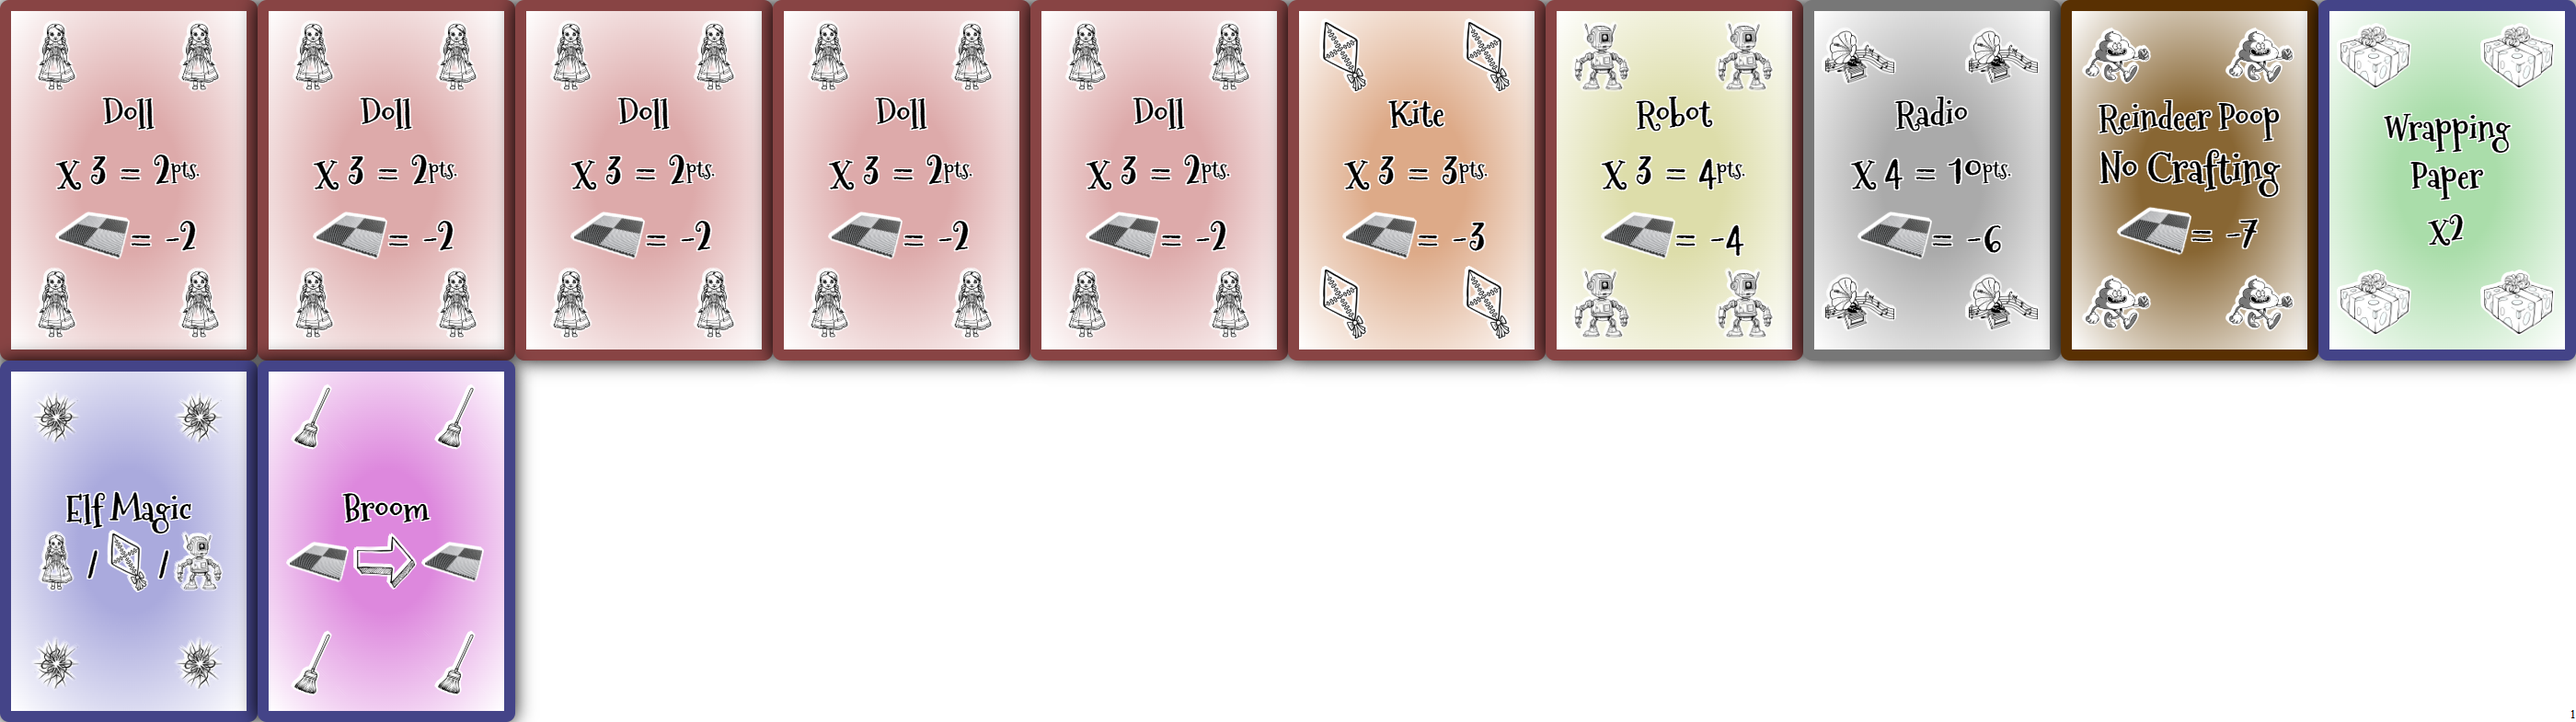
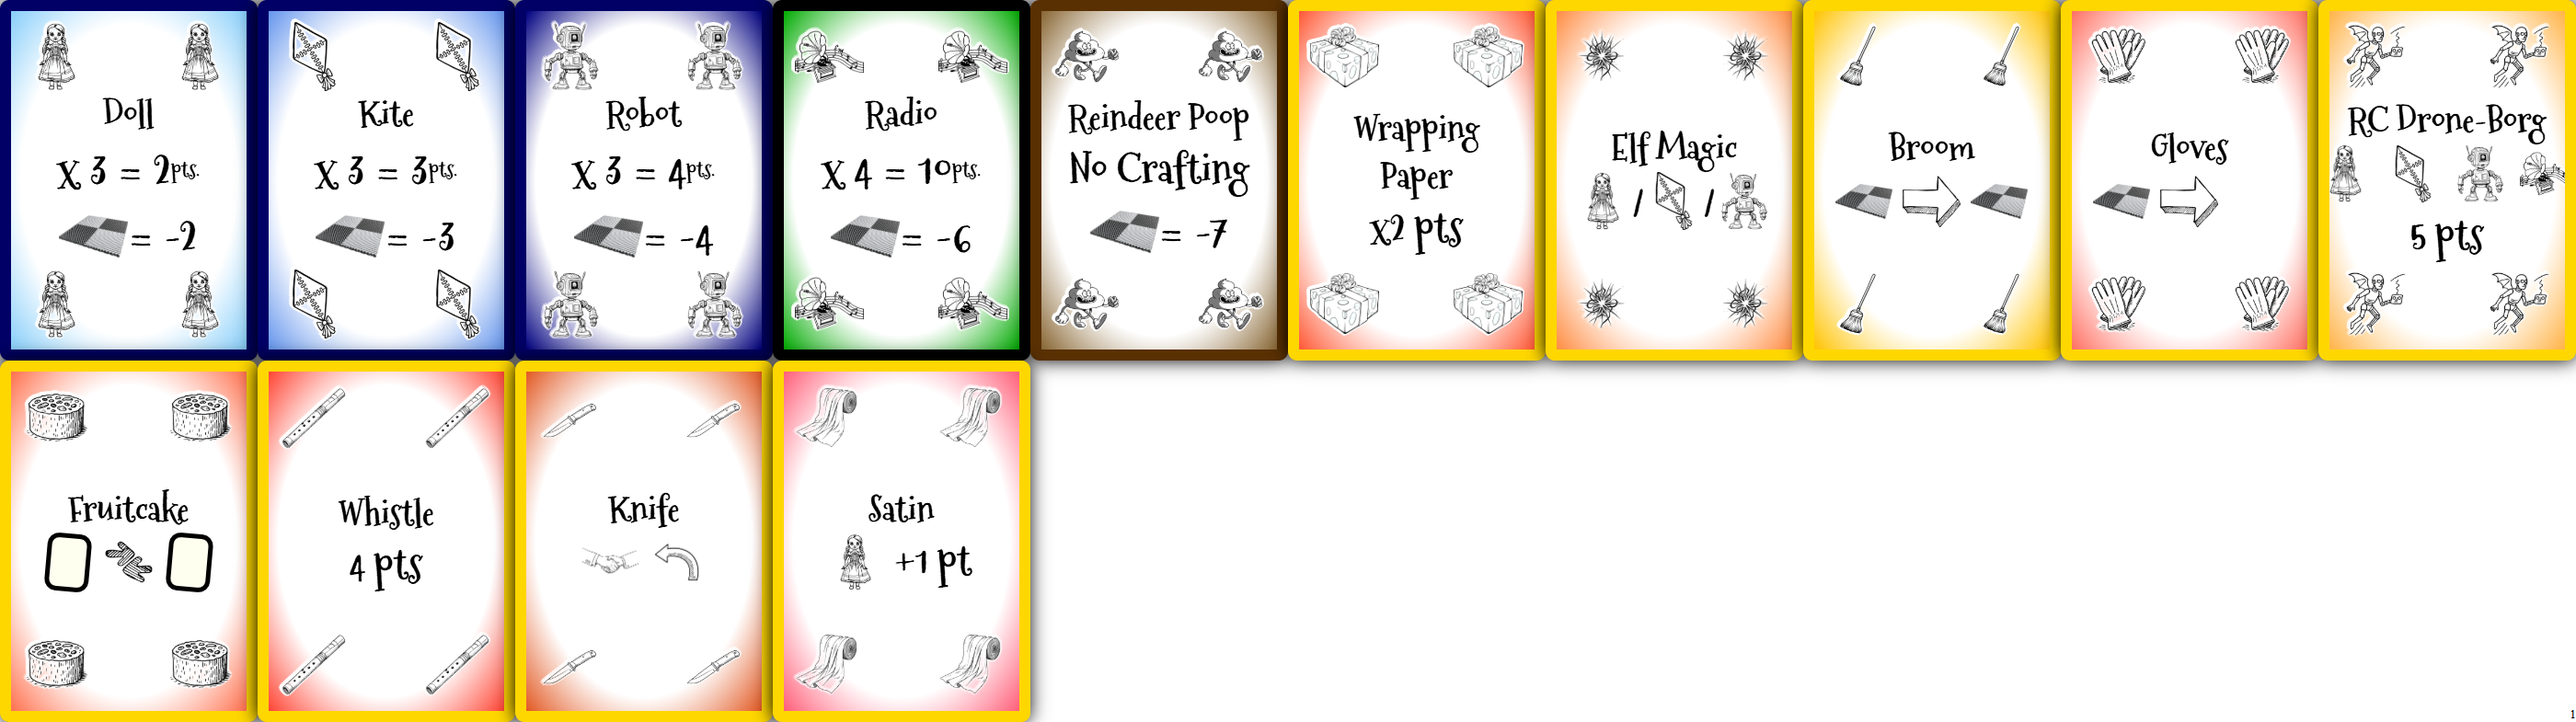
new colors more gold cards

diff --git a/Html.Santa/javascript/toyComponentCards.js b/Html.Santa/javascript/toyComponentCards.js
@@ -23,8 +23,12 @@ define([
   // Constants
   var minicardWidth = 30;
   var minicardHeight = minicardWidth * 1.4;
-  var specialImageSize = minicardHeight;
   var whiteOutlineClass = "white_outline";
+
+  var specialBorderColor = "#FFD700";
+  var basicBorderColor = "#000066";
+  var radioBorderColor = "#006600";
+
   var toyComponentCardConfigs = [
     {
       title: "Doll",
@@ -35,8 +39,8 @@ define([
       },
       floor: -2,
       playType: "normal",
-      color: "#ddaaaa",
-      borderColor: "#884444",
+      color: "#87CEFA",
+      borderColor: basicBorderColor,
     },
     {
       title: "Kite",
@@ -47,8 +51,8 @@ define([
       },
       floor: -3,
       playType: "normal",
-      color: "#ddaa88",
-      borderColor: "#884444",
+      color: "#6495ED",
+      borderColor: basicBorderColor,
     },
     {
       title: "Robot",
@@ -59,8 +63,8 @@ define([
       },
       floor: -4,
       playType: "normal",
-      color: "#ddddaa",
-      borderColor: "#884444",
+      color: "#000080",
+      borderColor: basicBorderColor,
     },
     {
       title: "Radio",
@@ -71,8 +75,8 @@ define([
       },
       floor: -6,
       playType: "challenge",
-      color: "#aaaaaa",
-      borderColor: "#777777",
+      color: "#00aa00",
+      borderColor: "radioBorderColor",
     },
     /*     {
                    title: "Matryoshka",
@@ -99,10 +103,10 @@ define([
     {
       title: "Wrapping Paper",
       class: "wrappingPaper",
-      special: "x2",
+      special: "x2 pts",
       playType: "special",
-      color: "#aaddaa",
-      borderColor: "#444488",
+      color: "#FF5733",
+      borderColor: specialBorderColor,
     },
     {
       title: "Elf Magic",
@@ -110,37 +114,66 @@ define([
       specialImageClasses: ["doll", "kite", "robot"],
       specialImagesSeparator: "/",
       playType: "special",
-      color: "#aaaadd",
-      borderColor: "#444488",
+      color: "#FF8C42",
+      borderColor: specialBorderColor,
     },
     {
       title: "Broom",
       class: "broom",
-      image: "../images/ToyComponents/broom.png",
       specialImageClasses: ["floor", "rightArrow", "floor"],
       playType: "special",
-      color: "#dd88dd",
-      borderColor: "#444488",
+      color: "#FFC300",
+      borderColor: specialBorderColor,
     },
-    /*
-               {
-                   title: "Gloves",
-                   class: "gloves",
-        image: "../images/ToyComponents/gloves.png",
-      specialImageClasses: ["floor", "rightArrow", "workbench"],
-        floor: -10,
-        playType: "special",
-        borderColor:  "#FFD700",
-               },
-               {
-                   title: "Fruitcake",
-                   class: "fruitcake",
-        image: "../images/ToyComponents/fruitcake.png",
-      specialImageClasses: ["fruitcake", "doubleArrow", "card"],
-        floor: -10,
-        playType: "special",
-        borderColor:  "#FFD700",
-               },*/
+    {
+      title: "Gloves",
+      class: "gloves",
+      specialImageClasses: ["floor", "rightArrow", "card"],
+      playType: "special",
+      color: "#FF6F61",
+      borderColor: specialBorderColor,
+    },
+    {
+      title: "RC Drone-Borg",
+      class: "cyborg",
+      specialImageClasses: ["doll", "kite", "robot", "radio"],
+      special: "5 pts",
+      playType: "special",
+      color: "#FFB347",
+      borderColor: specialBorderColor,
+    },
+    {
+      title: "Fruitcake",
+      class: "fruitcake",
+      specialImageClasses: ["card", "doubleArrow", "card"],
+      playType: "special",
+      color: "#FF704D",
+      borderColor: specialBorderColor,
+    },
+    {
+      title: "Whistle",
+      class: "whistle",
+      playType: "special",
+      special: "4 pts",
+      color: "#FF4433",
+      borderColor: specialBorderColor,
+    },
+    {
+      title: "Knife",
+      class: "knife",
+      specialImageClasses: ["handshake", "arrow"],
+      playType: "special",
+      color: "#E25822",
+      borderColor: specialBorderColor,
+    },
+    {
+      title: "Satin",
+      class: "satin",
+      specialImageClasses: ["doll", "plus_one_pt"],
+      playType: "special",
+      color: "#FF5E78",
+      borderColor: specialBorderColor,
+    },
   ];
 
   // Functions
@@ -201,15 +234,6 @@ define([
       htmlUtils.addDiv(wrapper, ["craftWrapper"], "craftWrapper", text);
     }
 
-    if (toyComponentCardConfig.special) {
-      special = htmlUtils.addDiv(
-        wrapper,
-        ["special"],
-        "special",
-        toyComponentCardConfig.special
-      );
-    }
-
     if (toyComponentCardConfig.specialImageClasses) {
       var imagesWrapper = htmlUtils.addDiv(
         wrapper,
@@ -245,6 +269,15 @@ define([
           );
         }
       }
+    }
+
+    if (toyComponentCardConfig.special) {
+      special = htmlUtils.addDiv(
+        wrapper,
+        ["special"],
+        "special",
+        toyComponentCardConfig.special
+      );
     }
 
     if (toyComponentCardConfig.floor) {
@@ -328,7 +361,7 @@ define([
     classArray.push(toyComponentCardConfig.class);
     var cardFrontNode = cards.addCardFront(parent, classArray, id);
 
-    var gradient = `radial-gradient(${toyComponentCardConfig.color} 30%, #ffffff)`;
+    var gradient = `radial-gradient(#ffffff 65%, ${toyComponentCardConfig.color})`;
 
     domStyle.set(cardFrontNode, {
       background: gradient,

diff --git a/Html.Santa/css/santa_images.css b/Html.Santa/css/santa_images.css
@@ -1,7 +1,3 @@
-div.pseudo_image.santaHead {
-  background-image: url("../images/Trackers/santaHead.png");
-}
-
 div.pseudo_image.doll {
   background-image: url("../images/ToyComponents/doll.png");
 }
@@ -34,12 +30,59 @@ div.pseudo_image.broom {
   background-image: url("../images/ToyComponents/broom.png");
 }
 
+div.pseudo_image.plus_one_pt {
+  width: 60px;
+}
+
+div.pseudo_image.plus_one_pt::before {
+  content: "+1 pt";
+  font-size: 35px;
+  white-space: nowrap;
+  display: flex;
+}
+
+div.pseudo_image.satin {
+  background-image: url("../images/ToyComponents/satin.png");
+}
+
+div.pseudo_image.whistle {
+  background-image: url("../images/ToyComponents/whistle.png");
+}
+
+div.pseudo_image.handshake {
+  background-image: url("../images/ToyComponents/handshake.png");
+}
+
+div.pseudo_image.knife {
+  background-image: url("../images/ToyComponents/knife.png");
+}
+
+div.pseudo_image.arrow {
+  background-image: url("../images/ToyComponents/arrow.png");
+}
+
+div.pseudo_image.gloves {
+  background-image: url("../images/ToyComponents/gloves.png");
+}
+
+div.pseudo_image.cyborg {
+  background-image: url("../images/ToyComponents/cyborg.png");
+}
+
+div.pseudo_image.fruitcake {
+  background-image: url("../images/ToyComponents/fruitcake.png");
+}
+
 div.pseudo_image.floor {
   background-image: url("../images/ToyComponents/floor.png");
 }
 
 div.pseudo_image.santa {
   background-image: url("../images/ToyComponents/santa.png");
+}
+
+div.pseudo_image.santaHead {
+  background-image: url("../images/ToyComponents/santaHead.png");
 }
 
 div.pseudo_image.doubleArrow {

diff --git a/Html.Santa/scss/santa_images.scss b/Html.Santa/scss/santa_images.scss
@@ -30,6 +30,49 @@ div.pseudo_image.broom {
   background-image: url("../images/ToyComponents/broom.png");
 }
 
+div.pseudo_image.plus_one_pt {
+  width: 60px;
+}
+
+div.pseudo_image.plus_one_pt::before {
+  content: "+1 pt";
+  font-size: 35px;
+  white-space: nowrap;
+  display: flex;
+}
+
+
+div.pseudo_image.satin {
+  background-image: url("../images/ToyComponents/satin.png");
+}
+div.pseudo_image.whistle {
+  background-image: url("../images/ToyComponents/whistle.png");
+}
+
+div.pseudo_image.handshake {
+  background-image: url("../images/ToyComponents/handshake.png");
+}
+
+div.pseudo_image.knife {
+  background-image: url("../images/ToyComponents/knife.png");
+}
+
+div.pseudo_image.arrow {
+  background-image: url("../images/ToyComponents/arrow.png");
+}
+
+div.pseudo_image.gloves {
+  background-image: url("../images/ToyComponents/gloves.png");
+}
+
+div.pseudo_image.cyborg {
+  background-image: url("../images/ToyComponents/cyborg.png");
+}
+
+div.pseudo_image.fruitcake {
+  background-image: url("../images/ToyComponents/fruitcake.png");
+}
+
 div.pseudo_image.floor {
   background-image: url("../images/ToyComponents/floor.png");
 }

diff --git a/Html.Santa/v002/ToyComponentCards.html b/Html.Santa/v002/ToyComponentCards.html
@@ -47,7 +47,7 @@
         "sharedJavascript/debugLog",
         "sharedJavascript/systemConfigs",
       ], function (toyComponentCards, cards, debugLog, systemConfigs) {
-        var useTTS = false;
+        var useTTS = true;
         if (useTTS) {
           // See systemConfigs.js for more details on configs.
           // This is the TTS config.

diff --git a/Html.Santa/scss/toy_component.scss b/Html.Santa/scss/toy_component.scss
@@ -94,6 +94,11 @@
   width: 50px;
 }
 
+.card.front.toyComponent .wrapper .imagesWrapper .pseudo_image.plus_one_pt {
+  width: 70px;
+}
+
+
 .card.front.toyComponent .wrapper .special {
   font-size: 35px;
 }

diff --git a/Html.Santa/css/toy_component.css b/Html.Santa/css/toy_component.css
@@ -92,6 +92,10 @@
   width: 50px;
 }
 
+.card.front.toyComponent .wrapper .imagesWrapper .pseudo_image.plus_one_pt {
+  width: 70px;
+}
+
 .card.front.toyComponent .wrapper .special {
   font-size: 35px;
 }
